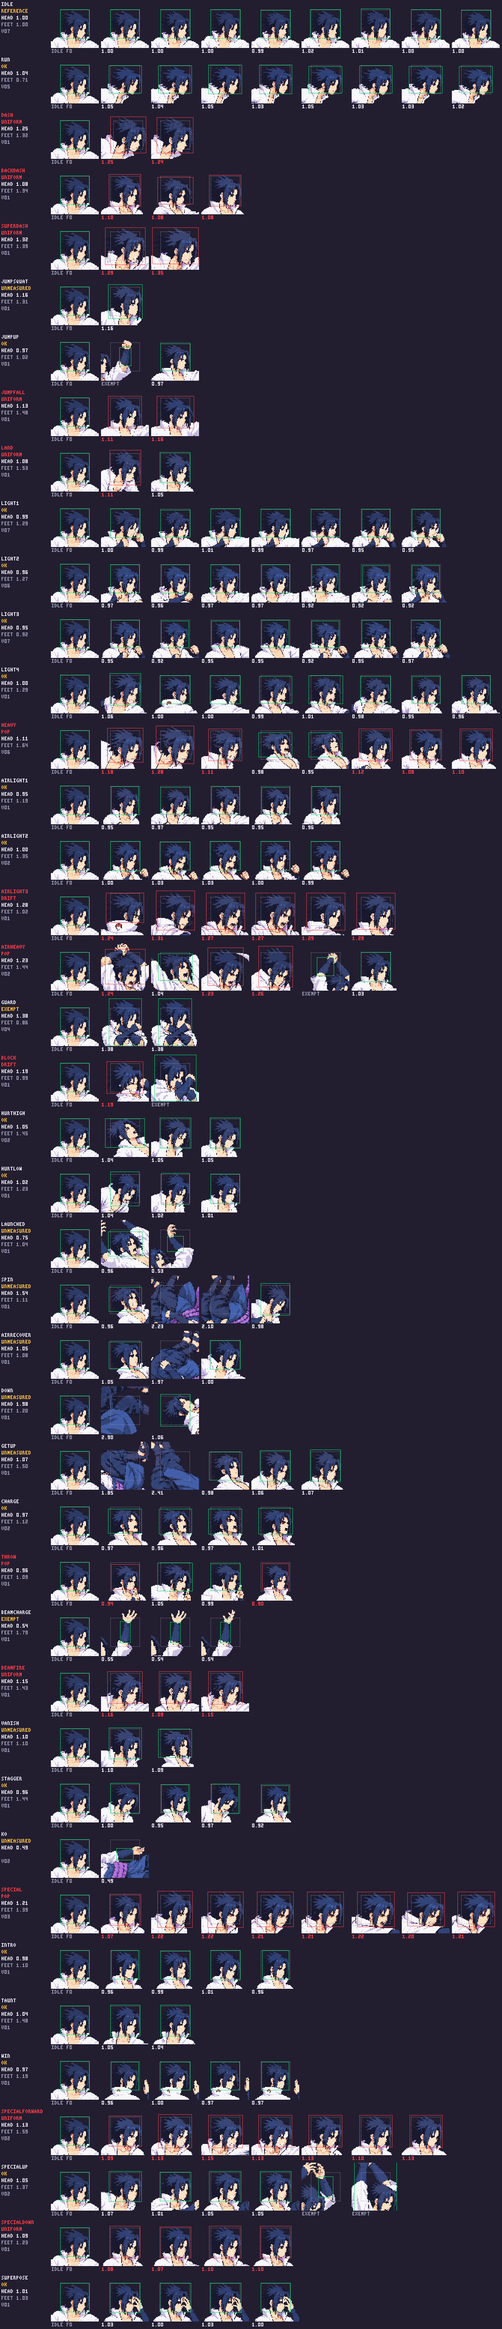
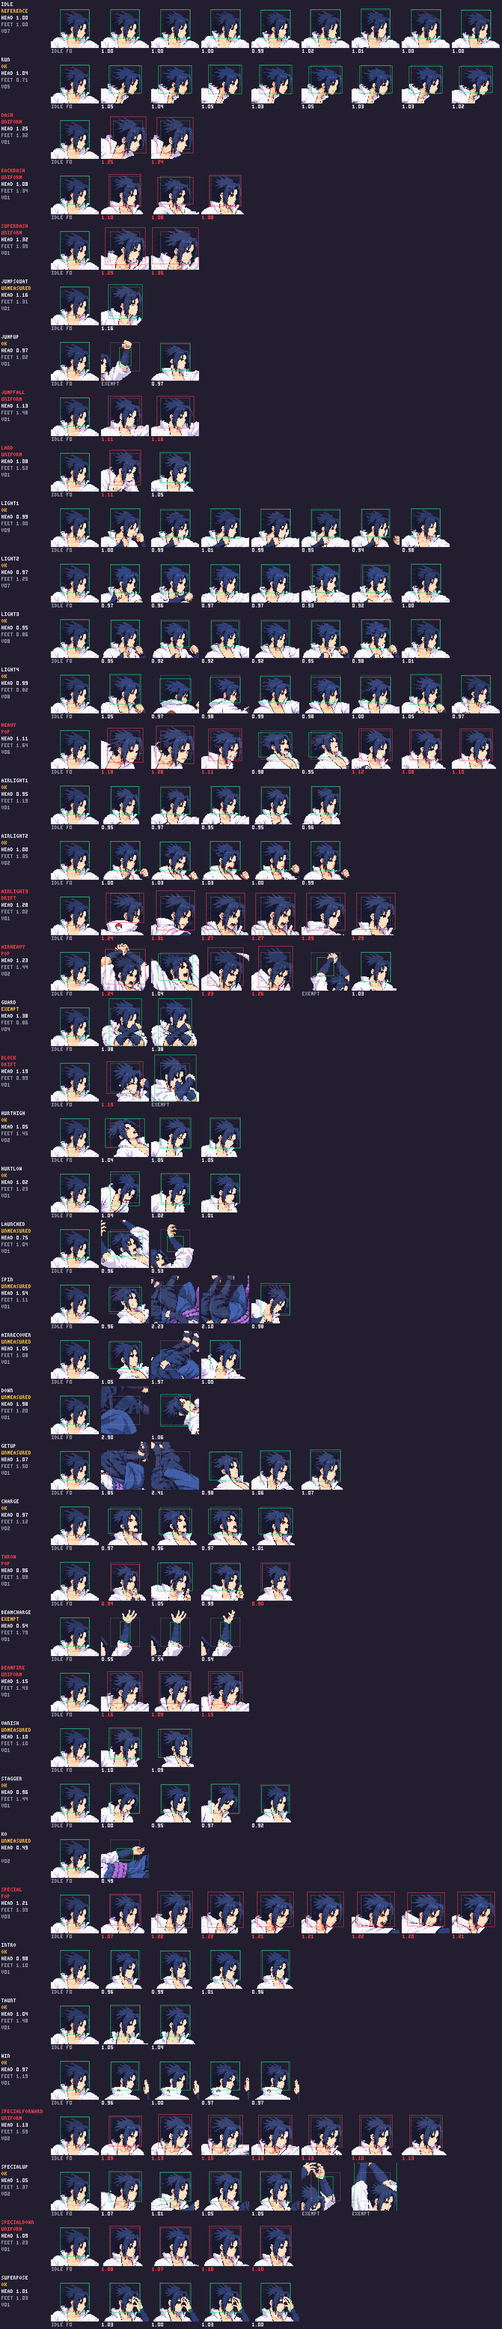
art(sasuke): align light attacks with approved open-palm recovery

diff --git a/art/characters/sasuke/production/title-style/QA.md b/art/characters/sasuke/production/title-style/QA.md
@@ -25,23 +25,37 @@ User-approved source: `reference/title_style_draft_v01.png`, plus the 256 px neu
 
 - Seven-frame left-lead jab, four poses in A and three in B. Stitch measured B factor 1.0362, scaled A 0.9651, and reported final B/A 1.036; no guessed size factor.
 - `node tools/pack-sprites.mjs sasuke --quantize 48` selected `raw/light1_v06.png` at x0.355 and exited 0. [All seven actual packed cells](packed-light1-v06.png) were inspected. The active fist is the rightmost element at head level in f2/f3, with a small solid smear in f2; f4–f6 retract to the idle guard. Feet remain grounded and hair, torso and leg proportions read consistently.
-- Visual defects: f1's punch is already near full extension, so the anticipation-to-impact distinction is modest; f6 has an open lead palm instead of returning to neutral closed-fist guard. Correct before final acceptance. User final batch review remains pending.
+- Visual defect: f1's punch is already near full extension, so the anticipation-to-impact distinction is modest. The f6 open lead palm was correct: both approved combat and provisional idle source have that palm. User final batch review remains pending.
 
 ## Light2 v05 → v06
 
 - v05 stitched with measured B factor 0.9856 but failed the new-strip gate. The dark right fist touching the face inflated f1's mask to 1.24× idle. Masking that frame exposed a 1.09× uniform head reading; actual packed upper hair width was 46–48 px versus 40 px in idle. [v05 QA cells](packed-light2-v05-qa.png) show the larger head. This is a technical reject, archived under `raw/_rejected/` with both parts preserved under `raw/_parts/_rejected/`.
-- v06 redraw narrowed the head and separated the fist contour. The measured stitch scaled B by 0.9686, final B/A 0.975. The 48-color candidate gate exits 0 **without a scale exemption** at bodyHeight 180, preserving the same standing envelope as the approved combat pilot. [All seven cells](packed-light2-v06.png) were extracted from the actual public atlas and inspected: coiled startup, right near fist extending at head level in f2/f3, and retraction into closed-fist guard by f6. The source maintains the lean torso/long-leg build and common y240 soles. Independent [3× nearest-neighbor head crop](packed-light2-v06-heads.png) shows upper dark-hair width 38–39 px through f0–f4 versus 40 px in idle. The crown and face both shift down about 6 px during f4 recovery while the head width, torso, legs and y240 soles remain at the same anatomical scale. This is a posed head drop, not evidence of a shrunken head; visual anatomy passes with that documented pose change. User final review remains pending.
+- v06 redraw narrowed the head and separated the fist contour. The measured stitch scaled B by 0.9686, final B/A 0.975. The 48-color candidate gate exits 0 **without a scale exemption** at bodyHeight 180, preserving the same standing envelope as the approved combat pilot. [All seven cells](packed-light2-v06.png) were extracted from the actual public atlas and inspected: coiled startup, right near fist extending at head level in f2/f3. Its f6 two-fist guard differs from the approved open-palm combat stance, so v06 is a visual reject. Independent [3× nearest-neighbor head crop](packed-light2-v06-heads.png) shows upper dark-hair width 38–39 px through f0–f4 versus 40 px in idle. The crown and face both shift down about 6 px during f4 recovery while the head width, torso, legs and y240 soles remain at the same anatomical scale. This is a posed head drop, not evidence of a shrunken head.
 
 ## Light1 v06 → v07
 
-- v06 packed but failed visual pose QA: f1 was almost fully extended in startup and f6 ended with an open lead palm. It is now a technical reject under `raw/_rejected/`, with both parts preserved under `raw/_parts/_rejected/` and [old packed cells](packed-light1-v06.png) retained for comparison.
-- v07 redrew both parts: f1 is a bent-arm halfway jab, f2/f3 are extended impact, f4 retracts, and f6 returns to two closed fists near the face. The stitch measured B factor 0.9697, final B/A 0.974. The 48-color new-strip gate exits 0 without exemption. [All seven actual atlas cells](packed-light1-v07.png) were inspected at native resolution; shared y240 soles and narrow head/lean anatomy persist. User final batch review remains pending.
+- v06 packed but failed visual pose QA: f1 was almost fully extended in startup. Its f6 open palm was correct. It is archived under `raw/_rejected/`, with both parts preserved under `raw/_parts/_rejected/` and [old packed cells](packed-light1-v06.png) retained for comparison.
+- v07 redrew both parts: f1 is a bent-arm halfway jab, f2/f3 are extended impact, f4 retracts. Its f6 two-fist guard differs from the approved open-palm combat stance. [v07 actual atlas cells](packed-light1-v07.png) document that visual reject.
 
 ## Light3 v05 → v07
 
 - v05 front kick used a measured 0.9762 B stitch but at the anatomically appropriate 190 px attack envelope, active frames clipped 21/11 px to the right. [Actual packed QA](packed-light3-v05-qa.png) preserves the evidence. Scaling the entire strip down to 180 px made the head 0.90× idle and still did not solve the pose transition, so v05 is a technical reject.
 - v06 used the same active pose with measured frame offsets (-25,0) and (-15,0), removing right clipping while keeping one anatomical scale. Its last recovery pose remained about 11 px taller than idle; [actual packed v06 cells](packed-light3-v06.png) show the pop. v06 is a technical visual reject, not an approved animation.
-- v07 kept the active pose, redrew only the recovery posture, and measured B factor 0.9984 (A scaled 0.9956, final B/A 0.977). The same measured frame offsets place the kicking sandal inside the 256 cell. The 48-color new-strip gate exits 0 with no clip warning or exemption. [All seven actual atlas cells](packed-light3-v07.png) were inspected; active f2/f3 extend to x250 without clipping, supporting foot and recovery soles stay at y240, and f6 crown y65 nearly matches idle y64. The kick's taller one-leg pose is preserved rather than forced to the crouched idle height. User final review remains pending.
+- v07 kept the active pose, redrew only the recovery posture, and measured B factor 0.9984 (A scaled 0.9956, final B/A 0.977). The same measured frame offsets place the kicking sandal inside the 256 cell. The 48-color new-strip gate exits 0 with no clip warning or exemption. [All seven actual atlas cells](packed-light3-v07.png) were inspected; active f2/f3 extend to x250 without clipping, supporting foot and recovery soles stay at y240, and f6 crown y65 nearly matches idle y64. Its f6 two-fist guard differs from the approved open-palm stance; v07 is a visual reject.
+
+## Light4 v05 → v07
+
+- The five-pose A strip shows a back-facing coil with collar crest/sheathed sword and a high right-leg roundhouse. Initial v05 measured B factor 0.9802, but packed f3 clipped 17 px right and f4 reached 1 px into the cell margin. [v05 actual QA](packed-light4-v05-qa.png) also shows f7 crown y74 versus idle y64. v05 is a technical reject.
+- v06 reused the generated kick poses, redrew B and used frame offsets (-21,0) for f3 and (-5,0) for f4 based on the measured v05 clip/margin. The 48-color gate passed without clipping, but [v06 actual cells](packed-light4-v06.png) had f7 crown y54, 10 px too high for the idle return. v06 is a visual reject.
+- v07 tried an intermediate B recovery with measured stitch B factor 0.996 (A/B 0.979) and the same offsets. The 48-color gate passes without clipping or exemption; [all eight actual cells](packed-light4-v07.png) show the back-facing windup, head-height high kick, solid crescent, leg drop and planted y240 soles. Its f7 crown is y75, 11 px below idle y64, and its hands remain closed. Three B imagegen attempts did not match the approved return, so v07 is a visual reject.
+
+## Canonical open-palm recovery corrections
+
+- The approved combat cell and generated idle v07 f0 both have an open lead palm toward screen-right. Previous QA incorrectly treated two closed fists as the idle authority. The candidate rows and notes now use the approved source stance. No generated source was overwritten; all recovery repairs are new versioned strips.
+- Light1 v08 paired the corrected v07 startup with the already generated v06 B open-palm endpoint. The measured stitch scaled B 0.9645; the 48-color gate passed. [Actual atlas cells](packed-light1-v08.png) showed f6 only 137 px wide versus idle f0 159 px. v08 is a visual reject for an undersized/narrow recovery pose. Light1 v09 reused generated idle v07 f0 in B at source factor 0.9815 derived from idle x0.337 / (light1 x0.356 × preceding B stitch 0.9645). The fresh stitch measured B 0.9493, the 48-color gate passed without a new scale or clip warning, and [actual atlas cells](packed-light1-v09.png) now show the correct open-palm endpoint. f5 remains a visibly retracting guard and f6 resolves to ready stance; feet stay y240.
+- Light2 v07 reused generated idle v07 f0 as f6 at measured source factor 0.9691 and freshly stitched B 0.9702. [Actual atlas cells](packed-light2-v07.png) pass the 48-color gate without new scale or clip warnings; f5 fist guard eases into the approved open-palm stance at f6. The final cell is 158×177 px versus idle f0 159×177, both soles y240.
+- Light3 v08 reused the same generated idle f0 at measured source factor 0.9755 and freshly stitched the parts (A scaled 0.9921). The existing measured active-frame offsets remain. [Actual atlas cells](packed-light3-v08.png) pass the 48-color gate without new scale or clip warnings. The elevated knee drops through f5 into the planted open-palm f6, which occupies 159×177 px, matching idle f0.
+- Light4 v08 reused generated idle f0 for canonical f7 at measured source factor 0.8438 and fresh measured B stitch 0.9850. The high kick and crescent remain inside the cell with the same measured offsets. [All eight actual cells](packed-light4-v08.png) pass the 48-color gate without new scale or clip warnings. The planted f6 guard flows to f7 open palm; f7 occupies 158×176 px versus idle f0 159×177, soles y240. Canonical pose reuse and exact method are in the versioned sidecar and patch script.
 
 ## Remaining checks
 

diff --git a/art/REVIEW.md b/art/REVIEW.md
@@ -53,13 +53,21 @@ Status values: `needs review` · `approved` · `rejected`.
 
 | date | character | asset | file | version | status | what changed | QA notes |
 |---|---|---|---|---|---|---|---|
-| 2026-10-11 | sasuke | light3 | [light3_v07.png](characters/sasuke/raw/light3_v07.png) | v07 | needs review | Title-style right near-leg front kick with measured active-foot placement and lowered neutral recovery. | Measured B stitch 0.9984; 48-color new-strip gate exits 0 without clipping or exemption. Active heel reaches x250; f6 crown y65 vs idle y64, soles y240. [Actual packed frames](characters/sasuke/production/title-style/packed-light3-v07.png) · [heads sheet](scale/heads-sasuke.png) · [QA](characters/sasuke/production/title-style/QA.md). Full-set final review pending. |
+| 2026-10-11 | sasuke | light1 | [light1_v09.png](characters/sasuke/raw/light1_v09.png) | v09 | needs review | Bent jab with generated idle v07 f0 reused for canonical open-palm recovery. | Measured B stitch 0.9493; 48-color new-strip gate passes without clipping or exemption. [Actual packed frames](characters/sasuke/production/title-style/packed-light1-v09.png) · [heads sheet](scale/heads-sasuke.png) · [QA](characters/sasuke/production/title-style/QA.md). Full-set final review pending. |
+| 2026-10-11 | sasuke | light2 | [light2_v07.png](characters/sasuke/raw/light2_v07.png) | v07 | needs review | Rear straight with generated idle v07 f0 reused for canonical open-palm recovery. | Measured B stitch 0.9702; 48-color new-strip gate passes without clipping or exemption. Final 158×177 px versus idle 159×177, soles y240. [Actual packed frames](characters/sasuke/production/title-style/packed-light2-v07.png) · [heads sheet](scale/heads-sasuke.png) · [QA](characters/sasuke/production/title-style/QA.md). Full-set final review pending. |
+| 2026-10-11 | sasuke | light3 | [light3_v08.png](characters/sasuke/raw/light3_v08.png) | v08 | needs review | Front kick with generated idle v07 f0 reused for canonical open-palm recovery; measured active-foot placement retained. | Measured A stitch 0.9921; 48-color new-strip gate passes without clipping or exemption. Active heel reaches x250; final 159×177 px, soles y240. [Actual packed frames](characters/sasuke/production/title-style/packed-light3-v08.png) · [heads sheet](scale/heads-sasuke.png) · [QA](characters/sasuke/production/title-style/QA.md). Full-set final review pending. |
+| 2026-10-11 | sasuke | light4 | [light4_v08.png](characters/sasuke/raw/light4_v08.png) | v08 | needs review | Back-facing high roundhouse and crescent, returning to generated idle v07 f0 open-palm stance. | Measured B stitch 0.9850 and active-foot offsets; 48-color new-strip gate passes without clipping or exemption. Final 158×176 px versus idle 159×177, soles y240. [Actual packed frames](characters/sasuke/production/title-style/packed-light4-v08.png) · [heads sheet](scale/heads-sasuke.png) · [QA](characters/sasuke/production/title-style/QA.md). Full-set final review pending. |
+| 2026-10-11 | sasuke | light4 | [light4_v07.png](characters/sasuke/raw/_rejected/light4_v07.png) | v07 | rejected | Third generated B recovery. | Visual reject: f7 crown y75, 11 px below idle, closed fists instead of approved open palm. [Actual packed frames](characters/sasuke/production/title-style/packed-light4-v07.png). |
+| 2026-10-11 | sasuke | light4 | [light4_v06.png](characters/sasuke/raw/_rejected/light4_v06.png) | v06 | rejected | Redrawn B with measured active-foot offsets. | Visual reject: f7 crown y54, 10 px above idle. [Actual packed frames](characters/sasuke/production/title-style/packed-light4-v06.png). |
+| 2026-10-11 | sasuke | light4 | [light4_v05.png](characters/sasuke/raw/_rejected/light4_v05.png) | v05 | rejected | First title-style high roundhouse. | Technical reject: f3 right clip 17 px and f4 only 1 px margin; f7 crown low. [Packed QA](characters/sasuke/production/title-style/packed-light4-v05-qa.png). |
+| 2026-10-11 | sasuke | light1 | [light1_v08.png](characters/sasuke/raw/_rejected/light1_v08.png) | v08 | rejected | Corrected startup paired with generated open-palm B recovery. | Visual reject: final recovery occupies only 137 px width versus 159 px idle. [Actual packed frames](characters/sasuke/production/title-style/packed-light1-v08.png). |
+| 2026-10-11 | sasuke | light3 | [light3_v07.png](characters/sasuke/raw/_rejected/light3_v07.png) | v07 | rejected | Title-style right near-leg front kick with measured active-foot placement. | Visual reject: f6 has two closed fists instead of approved open palm. [Actual packed frames](characters/sasuke/production/title-style/packed-light3-v07.png). |
 | 2026-10-11 | sasuke | light3 | [light3_v06.png](characters/sasuke/raw/_rejected/light3_v06.png) | v06 | rejected | Kick with corrected active frame placement. | Technical visual reject: f6 neutral return sits about 11 px taller than approved idle. [Packed QA](characters/sasuke/production/title-style/packed-light3-v06.png). |
 | 2026-10-11 | sasuke | light3 | [light3_v05.png](characters/sasuke/raw/_rejected/light3_v05.png) | v05 | rejected | First title-style front kick. | Technical reject: active sandal clipped 21/11 px at right cell edge at the anatomical scale. [Packed QA](characters/sasuke/production/title-style/packed-light3-v05-qa.png). |
-| 2026-10-11 | sasuke | light1 | [light1_v07.png](characters/sasuke/raw/light1_v07.png) | v07 | needs review | Corrected lead jab with bent-arm startup and two closed fists in recovery. | Measured stitch B factor 0.9697; 48-color new-strip scale gate exits 0 without exemption. [Actual packed cells](characters/sasuke/production/title-style/packed-light1-v07.png) · [heads sheet](scale/heads-sasuke.png) · [QA](characters/sasuke/production/title-style/QA.md). Full-set final review pending. |
-| 2026-10-11 | sasuke | light2 | [light2_v06.png](characters/sasuke/raw/light2_v06.png) | v06 | needs review | Title-style seven-frame right rear straight, with a narrower head and separated recovery after v05 failed. | Measured stitch B factor 0.9686; 48-color new-strip scale gate exits 0 without exemption. [Actual packed cells](characters/sasuke/production/title-style/packed-light2-v06.png) · [heads sheet](scale/heads-sasuke.png) · [QA](characters/sasuke/production/title-style/QA.md). Full-set final review pending. |
+| 2026-10-11 | sasuke | light1 | [light1_v07.png](characters/sasuke/raw/_rejected/light1_v07.png) | v07 | rejected | Corrected lead jab startup, closed-fist endpoint. | Visual reject: final two-fist guard differs from approved open lead palm. [Actual packed cells](characters/sasuke/production/title-style/packed-light1-v07.png). |
+| 2026-10-11 | sasuke | light2 | [light2_v06.png](characters/sasuke/raw/_rejected/light2_v06.png) | v06 | rejected | Title-style right rear straight with a narrower head. | Visual reject: final two-fist guard differs from approved open lead palm. [Actual packed cells](characters/sasuke/production/title-style/packed-light2-v06.png). |
 | 2026-10-11 | sasuke | light2 | [light2_v05.png](characters/sasuke/raw/_rejected/light2_v05.png) | v05 | rejected | First title-style rear straight attempt. | Technical reject: 1.24× f1 head-mask pop, then a 1.09× uniform head reading after isolating the fist; upper hair width 46–48 px versus 40 px idle at packed scale. [Packed QA](characters/sasuke/production/title-style/packed-light2-v05-qa.png). |
-| 2026-10-11 | sasuke | light1 | [light1_v06.png](characters/sasuke/raw/_rejected/light1_v06.png) | v06 | rejected | First title-style lead jab. | Technical visual reject: f1 is nearly fully extended during startup and f6 has an open palm instead of neutral closed-fist guard. [Packed cells](characters/sasuke/production/title-style/packed-light1-v06.png). |
+| 2026-10-11 | sasuke | light1 | [light1_v06.png](characters/sasuke/raw/_rejected/light1_v06.png) | v06 | rejected | First title-style lead jab. | Visual reject: f1 is nearly fully extended during startup. Its open-palm f6 matches the approved combat stance. [Packed cells](characters/sasuke/production/title-style/packed-light1-v06.png). |
 | 2026-10-11 | sasuke | run | [run_v05.png](characters/sasuke/raw/run_v05.png) | v05 | needs review | Title-style eight-frame run, both halves redrawn with stable head/torso scale after v04 failed. | Measured stitch B factor 0.9959; new-strip scale gate exits 0, no clipping. [Packed loop](characters/sasuke/production/title-style/packed-run-v05.png) · [heads sheet](scale/heads-sasuke.png) · [QA](characters/sasuke/production/title-style/QA.md). Full-set final review pending. |
 | 2026-10-11 | sasuke | run | [run_v04.png](characters/sasuke/raw/_rejected/run_v04.png) | v04 | rejected | First title-style run with four contact/down/passing/flight keys in each part. | Technical reject: head pop and 22/24 px right clipping in flight frames. [Packed QA](characters/sasuke/production/title-style/packed-run-v04-qa.png). |
 | 2026-10-11 | sasuke | guard | [guard_v04.png](characters/sasuke/raw/guard_v04.png) | v04 | needs review | Title-style crossed-arm guard with corrected second-frame anatomy; provisional idle v07 continuity. | Two frames packed. Hair-masked probe is exempt for this version only after native anatomy inspection, not a numeric pass. [QA](characters/sasuke/production/title-style/QA.md) · [packed frames](characters/sasuke/production/title-style/packed-guard-v04-qa.png) · [heads sheet](scale/heads-sasuke.png). Full-set final review pending. |

diff --git a/art/TRACKER.md b/art/TRACKER.md
@@ -138,10 +138,10 @@ Sprite Lab; if his hair adds clearly less height and his head comes out bigger, 
 | 2 | reference/expressions_vNN.png -> expressions.png | - | - | yes | - | approved | v01 | v01 | User approved v01 on 2026-10-09; recorded QA: 8 readable expressions, approved identity; Sharingan marks stylized; raw head scale and magenta differ from prompt; see REVIEW.md |
 | 3 | idle | 8 | - | **yes** | 180 | approved | v07 | v01 | Title-style v07 candidate, needs final batch review; 48-color candidate pack exits 0, measured stitch, native idle 159×177 against pilot combat 155×180. Old v01 remains the approved version. |
 | 4 | run | 8 | - | **yes** | 150 | approved | v05 | v02 | Title-style v05 candidate needs full-set review; v04 was rejected for head pop and clipped flight poses. v05 measured stitch and new-strip gate pass; all eight actual atlas cells inspected. Old v02 remains approved. |
-| 5 | light1 | 7 | 2/2/3 | **yes** | 180 | approved | v07 | v01 | Title-style v07 corrects v06 early extension/open-palm recovery; measured stitch, new-strip gate and actual packed seven-frame QA pass. Full-set final review pending; old v01 remains approved. |
-| 5 | light2 | 7 | 2/2/3 | **yes** | 180 | approved | v06 | v02 | Title-style v06 candidate: measured stitch, 48-color new-strip gate without exemption and all seven actual cells inspected. v05 rejected for inflated head; v02 remains approved pending final batch review. |
-| 5 | light3 | 7 | 2/2/3 | **yes** | 190 | approved | v07 | v02 | Title-style v07 candidate: measured stitch, measured active-foot offsets, 48-color new-strip gate and seven actual packed frames pass; v05 clipped, v06 had a tall recovery pop. Full-set final review pending; old v02 remains approved. |
-| 5 | light4 | 8 | 3/2/3 | **yes** | 207 | approved | v01 | v01 | User approved the final batch 2026-10-10 (chat with Claude, PR #9). |
+| 5 | light1 | 7 | 2/2/3 | **yes** | 180 | approved | v09 | v01 | Title-style v09 candidate uses measured generated idle f0 endpoint in the approved open-palm stance; 48-color new-strip gate and actual packed seven-frame QA pass. Full-set final review pending; old v01 remains approved. |
+| 5 | light2 | 7 | 2/2/3 | **yes** | 180 | approved | v07 | v02 | Title-style v07 candidate uses measured generated idle f0 endpoint; 48-color new-strip gate and actual packed seven-frame QA pass. v05 oversized head and v06 closed-fist endpoint were rejected; old v02 remains approved. |
+| 5 | light3 | 7 | 2/2/3 | **yes** | 190 | approved | v08 | v02 | Title-style v08 candidate retains measured active-foot offsets and uses generated idle f0 endpoint; 48-color new-strip gate and actual atlas QA pass. v05 clipped, v06 tall and v07 closed-fist recovery were rejected; old v02 remains approved. |
+| 5 | light4 | 8 | 3/2/3 | **yes** | 193 | approved | v08 | v01 | Title-style v08 candidate: measured active-foot offsets and generated idle f0 open-palm endpoint; 48-color new-strip gate and actual atlas QA pass. v05–v07 rejected; old v01 remains approved pending full-set review. |
 | 5 | heavy | 8 | 3/2/3 | **yes** | 218 | approved | v06 | v06 | User approved latest version 2026-10-10; documented QA deviations accepted. Ready for integration. |
 | 5 | airLight1 | 5 | 1/2/2 | **yes** | 198 | approved | v01 | v01 | User approved the final batch 2026-10-10 (chat with Claude, PR #9). |
 | 5 | airHeavy | 6 | 2/2/2 | **yes** | 198 | approved | v02 | v02 | User approved the final batch 2026-10-10 (chat with Claude, PR #9). |

diff --git a/docs/TASKS.md b/docs/TASKS.md
@@ -20,7 +20,7 @@ The single list of work in flight, shared by the user, Claude and Codex. The pro
 
 ## Milestone M2: training, input, hit accuracy (v0.3.0)
 
-**ART-SAS-TITLE-20261011**, Codex, in-progress. files: art/characters/sasuke/, art/manifest.json, art/TRACKER.md, art/REVIEW.md, art/scale/heads-sasuke.png, public/characters/sasuke/, docs/TASKS.md, CHANGELOG.md. User approved title-style draft and scaled pilot, authorized all 42 animations plus 3 UI without intermediate image gates. Branch `art/sasuke-title-production`, real sparse worktree and draft PR #71 with committed WIP preview. Idle v07, guard v04, run v05, light1 v07, light2 v06 and light3 v07 have native QA; guard v03, run v04, light1 v06, light2 v05 and light3 v05/v06 were technically rejected. Live equal-depth idle/custom-sheet load passed. Full batch, user final review and Claude integration remain open.
+**ART-SAS-TITLE-20261011**, Codex, in-progress. files: art/characters/sasuke/, art/manifest.json, art/TRACKER.md, art/REVIEW.md, art/scale/heads-sasuke.png, public/characters/sasuke/, docs/TASKS.md, CHANGELOG.md. User approved title-style draft and scaled pilot, authorized all 42 animations plus 3 UI without intermediate image gates. Branch `art/sasuke-title-production`, real sparse worktree and draft PR #71 with committed WIP preview. Idle v07, guard v04, run v05, light1 v09, light2 v07, light3 v08 and light4 v08 have native QA; the four latest light attacks use measured generated idle f0 source for the approved open-palm recovery stance. Earlier light candidates remain archived with reasons in REVIEW.md. Live equal-depth idle/custom-sheet load passed. Full batch, user final review and Claude integration remain open.
 
 Cast proportion review: **ART-CAST-SAMPLES**, Codex, review. User requested a quick sample checkpoint before the full frame audit. Branch `art/cast-scale-samples` compares production-matched sprites, Naruto guard/block/spot-dodge head crops, and approved turnarounds. No art approvals or gameplay changes. Full audit paused for user feedback; Claude owns integration.
 

diff --git a/CHANGELOG.md b/CHANGELOG.md
@@ -11,11 +11,13 @@ Fixed, Security. Reference task ids and ADRs where useful.
 
 ## [Unreleased]
 
+- art(sasuke): add title-style roundhouse v08 and correct light1 v09, light2 v07, light3 v08 recovery endpoints to the approved open-palm stance by measured reuse of generated idle source poses; preserve all prior versions and verify the 48-color atlas.
+
 - art(sasuke): add title-style front kick v07 with measured placement, unclipped active sandals and a recovery pose that rejoins the approved idle height; archive two rejected attempts.
 
-- art(sasuke): correct the lead jab's early extension and open-hand recovery in title-style v07; preserve rejected v06 and inspect all seven packed frames.
+- art(sasuke): correct the lead jab's early extension in title-style v07; preserve rejected v06 and inspect all seven packed frames. The v07 two-fist recovery was later rejected because the approved stance has an open lead palm.
 
-- art(sasuke): add title-style rear straight v06 candidate with measured stitch, strict new-strip scale pass and actual-atlas QA; archive enlarged-head v05 and flag light1 recovery for correction.
+- art(sasuke): add title-style rear straight v06 candidate with measured stitch, strict new-strip scale pass and actual-atlas QA; archive enlarged-head v05. Its closed-fist endpoint was later rejected against the approved open-palm stance.
 
 - art(sasuke): start approved title-style redraw with measured idle v07, corrected guard v04 and lead jab v06 candidates; preserve pilot references and document the guard mask exemption and pending full-batch QA.
 
